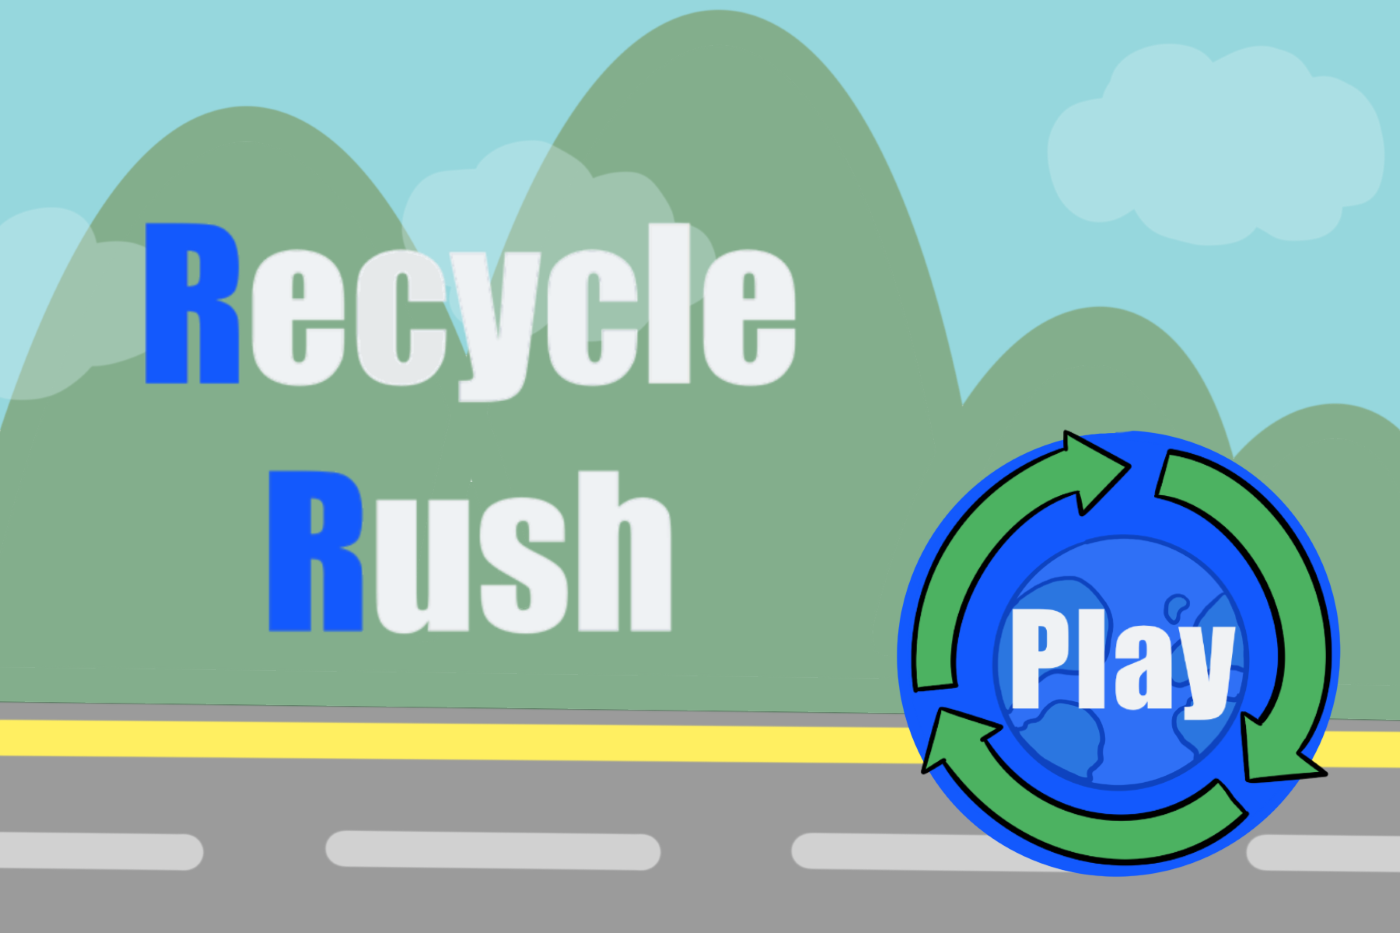
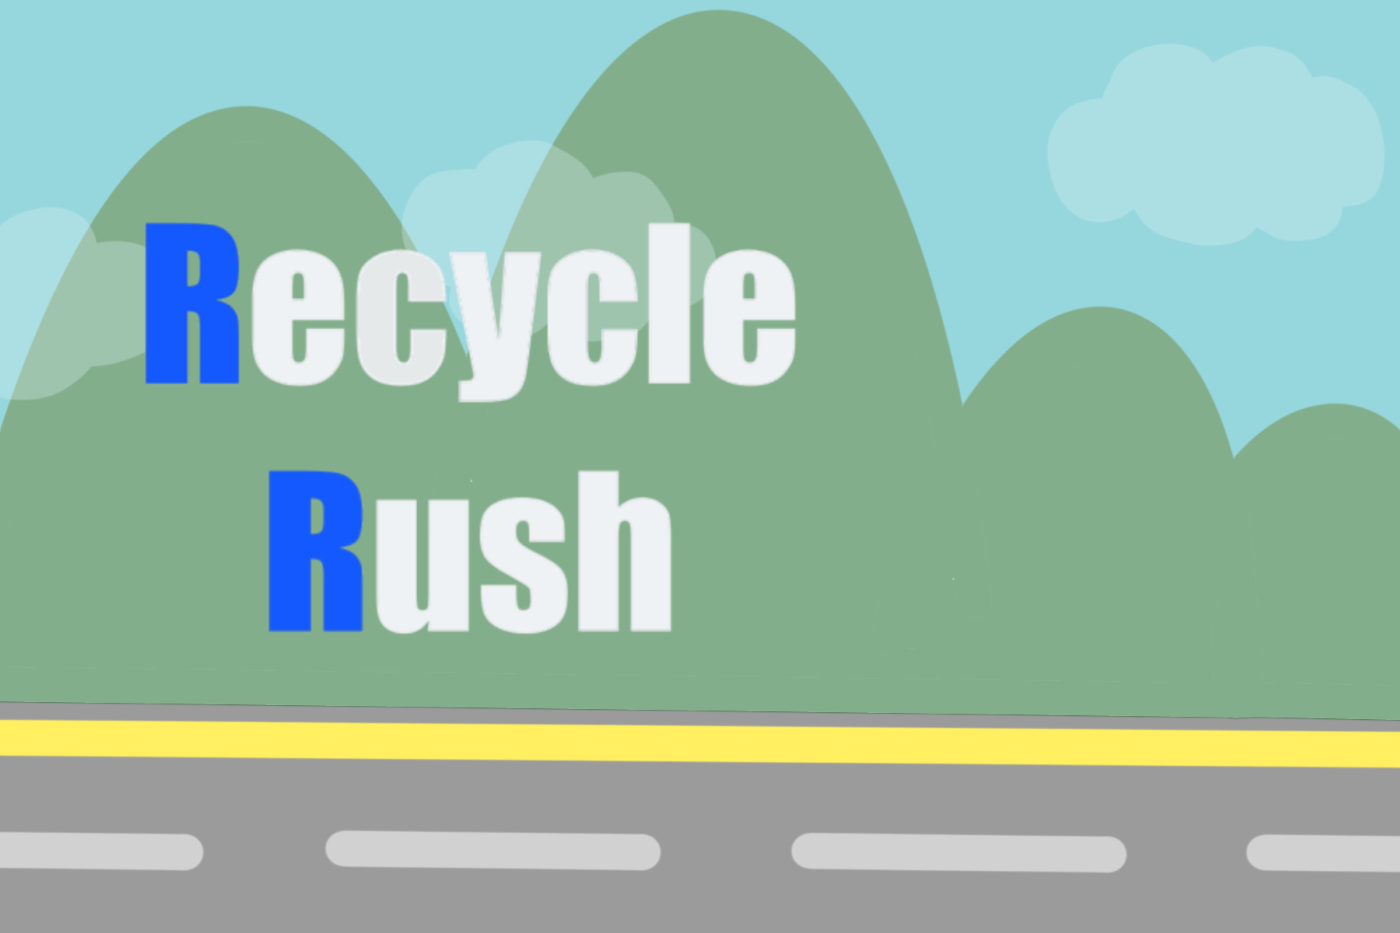
menu functionality and fixed hearts

Changed region(s): [[0.6143, 0.4352, 0.9829, 0.9636]]

diff --git a/menu.py b/menu.py
@@ -36,14 +36,23 @@ class Menu:
 
     def __init__(self, renderer):
 
-        #self.title = Button(renderer.width/2, 50, "Recycle Rush", 100)
-
-        self.easy = Button(renderer.width/2, renderer.height/2, "Easy", 50)
-        self.hard = Button(renderer.width/2, renderer.height/2+100, "Hard", 50)
         self.soundb = SoundButton(renderer.width, renderer.height)
-        self.main = pygame.Rect(1000, 530, 250, 250)
+        self.main = pygame.Rect(1000, 540, 200, 200)
+        self.easy = pygame.Rect(1050, 480, 100, 100)
+        self.hard = pygame.Rect(1050, 680, 100, 100)
+        self.earth = pygame.image.load(os.path.join("images", "earth.png"))
+        self.earthrect = self.earth.get_rect()
+        self.earthrect.x, self.earthrect.y = 900, 430
 
-        self.buttons = (self.easy, self.hard)
+        self.easyearth = pygame.image.load(os.path.join("images", "tinyearth.png"))
+        self.eearthrect = self.easyearth.get_rect()
+        self.eearthrect.x, self.eearthrect.y = 1000, 430
+        self.hardearth = pygame.image.load(os.path.join("images", "tinyearth.png"))
+        self.hearthrect = self.hardearth.get_rect()
+        self.hearthrect.x, self.hearthrect.y = 1000, 630
+
+        self.first = (self.main)
+        self.second = (self.easy, self.hard)
 
         self.image = pygame.image.load(os.path.join("images", "menu.png"))
         self.rect = self.image.get_rect()
@@ -53,15 +62,26 @@ class Menu:
         self.rect.width = renderer.width
         self.rect.width = renderer.height
 
+        self.stage = 0
+
     def render(self, screen):
         screen.blit(self.image, self.rect)
 
+       
+
         self.soundb.render(screen)
-        pygame.draw.rect(screen, (0,0,0), self.main, 1)
         #self.title.draw(screen)
+
         # Draw Buttons
-        for element in self.buttons:
-            element.draw(screen)
+        if self.stage == 0:
+            screen.blit(self.earth, self.earthrect)
+            pygame.draw.rect(screen, (0,0,0), self.main, 1)
+        elif self.stage == 1:
+            screen.blit(self.easyearth, self.eearthrect)
+            screen.blit(self.hardearth, self.hearthrect)
+            pygame.draw.rect(screen, (0,0,0), self.easy, 1)
+            pygame.draw.rect(screen, (0,0,0), self.hard, 1)
+            
         
 
     def update(self, gamelogic, event):
@@ -69,11 +89,11 @@ class Menu:
         self.soundb.update(gamelogic, event)
 
         if event.type == pygame.MOUSEBUTTONDOWN:
-            it = 0
-            for button in self.buttons:
-                if button.rect.collidepoint(pygame.mouse.get_pos()):
-                    if it == 0:
-                        gamelogic.setState(1)
-                    elif it == 1:
-                        gamelogic.setState(2)
-                it = it + 1
+            if self.stage == 0 and self.main.collidepoint(pygame.mouse.get_pos()):
+                self.stage = 1
+            elif self.stage == 1 and self.easy.collidepoint(pygame.mouse.get_pos()):
+                gamelogic.setState(1)
+                self.stage = 0
+            elif self.stage == 1 and self.hard.collidepoint(pygame.mouse.get_pos()):
+                gamelogic.setState(2)
+                self.stage = 0

diff --git a/renderer.py b/renderer.py
@@ -8,6 +8,7 @@ from menu import Menu
 from bin import Bins
 from gameLogic import GameLogic
 
+
 class Renderer:
 
     def __init__(self):
@@ -49,7 +50,7 @@ class Renderer:
         if self.logic.getState() == 0:
             self.menu.render(self.surface)
         elif self.logic.getState() == 2:
-            self.river.render(self.surface)
+            self.river.render(self.surface, self.logic)
         elif self.logic.getState() == 1:
             self.pile.render(self.surface, self.logic)
 
@@ -61,15 +62,13 @@ class Renderer:
     def on_execute(self):
         if self.on_init() == False:
             self.running = False
-
         # Main game loop
         while( self.running ):
 
             for event in pygame.event.get():
                 self.on_event(event)
             
-            self.on_render()
-        
+            self.on_render()       
         # Exiting
         self.on_cleanup()
  

diff --git a/status.py b/status.py
@@ -71,8 +71,10 @@ class Heart:
         screen.blit(self.heartimage, self.heartrect)
 
     def update(self, gamelogic):
-        if gamelogic.health >= self.heartvalue:
+        if gamelogic.health >= self.heartvalue and gamelogic.getState() == 2:
             self.should_draw = True
+            # if gamelogic.health == 1:
+            #   self.heartrect.move()
         else:
             self.should_draw = False
 
@@ -118,7 +120,6 @@ class Status:
         self.text = self.font.render(str(gamelogic.getScore()), True, self.textcolor)
 
     def update(self, gamelogic, event, score, scene):
-
         for heart in self.hearts:
             heart.update(gamelogic)
 

diff --git a/river.py b/river.py
@@ -58,10 +58,11 @@ class RiverScene:
         self.speed = 3
 
     # render items in river scene
-    def render(self, screen):
+    def render(self, screen, gamelogic):
 
         if self.start:
             screen.blit(self.startsurface, self.startpopout_rect)
+            gamelogic.setState(2)
 
         elif not self.finished:
             self.bins.render(screen)

diff --git a/pile.py b/pile.py
@@ -72,6 +72,7 @@ class Pile(pygame.sprite.Sprite):
             self.rect = self.image.get_rect()
             self.rect.center = self.w / 2, self.h / 2 - (self.h / 4)
             gamelogic.setScore(0)
+            gamelogic.setState(1)
         else:
             if not self.finished:
                 screen.blit(self.image, self.rect)

diff --git a/item.py b/item.py
@@ -134,6 +134,7 @@ class Item(pygame.sprite.Sprite):
             # if item not over correct bin move to center bottom
             if not touched:
                 self.setLocation((700,775))
+                
             self.moving = False
 
         # item follows mouse if item should be moving

diff --git a/gameLogic.py b/gameLogic.py
@@ -2,7 +2,7 @@ import pygame
 
 class GameLogic:
     def __init__(self):
-        MENU,SETTINGS,PILE,RIVER = 0, 1, 2, 3
+        MENU,PILE,RIVER = 0, 1, 2
         self.scene = MENU
         self.score = 0
         self.health = 3
